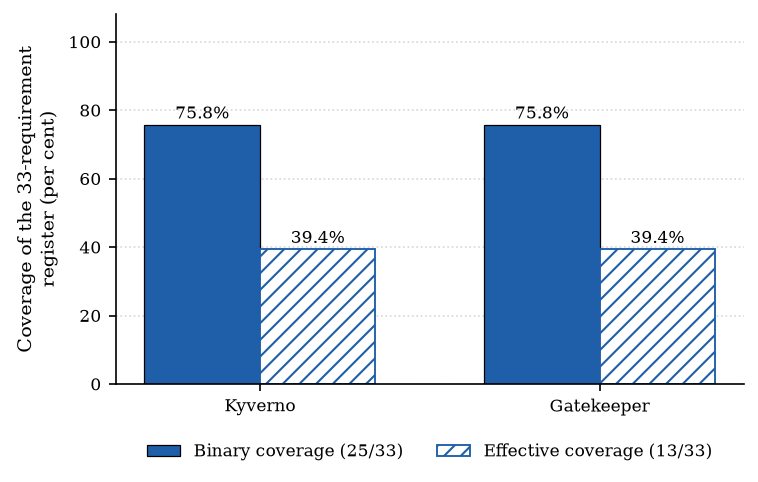
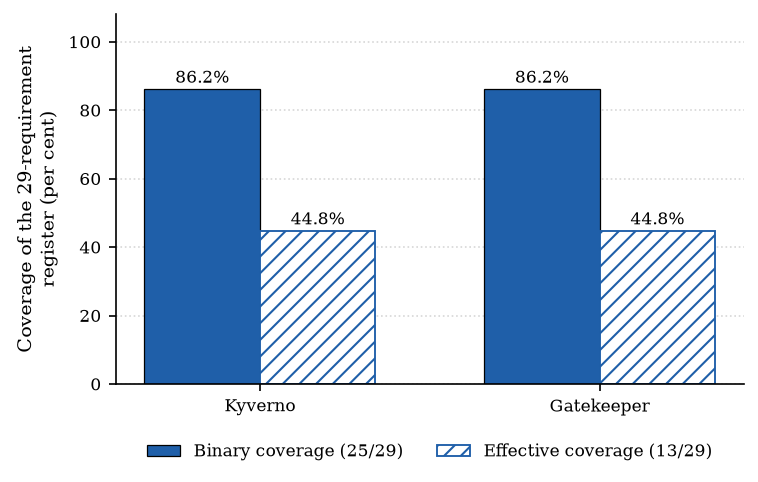
Reduce register to 29 technical requirements: articles yielding no technical requirement are recorded in scope rather than as register rows

diff --git a/scripts/verify-dora-citations.py b/scripts/verify-dora-citations.py
@@ -299,6 +299,16 @@ def main():
     seen = collections.Counter(
         int(re.search(r"(\d+)", r["dora_article"]).group(1)) for r in reg)
     corpus2 = json.load(open(args.corpus))
+    # Articles that yield no requirement enforceable at admission. The register
+    # decomposes each article into its technical requirements; where an article
+    # yields none, that is recorded here and in the thesis scope section rather
+    # than as a register row, so the register holds technical requirements only.
+    NO_TECHNICAL_REQUIREMENT = {
+        5:  "binds the management body, not the systems",
+        6:  "governs the risk management framework document",
+        13: "governs learning and post-incident review",
+        14: "governs crisis communication and staffing",
+    }
     gaps = []
     for a in range(5, 16):
         if seen.get(a):
@@ -306,6 +316,9 @@ def main():
         if (corpus2.get(str(a)) or {}).get("addressee") == "ESA":
             print(f"Article {a}: no requirement, correct "
                   f"(binds the ESAs, not financial entities).")
+        elif a in NO_TECHNICAL_REQUIREMENT:
+            print(f"Article {a}: no requirement, correct "
+                  f"({NO_TECHNICAL_REQUIREMENT[a]}).")
         else:
             gaps.append(a)
     if gaps:

diff --git a/results/coverage-matrix.md b/results/coverage-matrix.md
@@ -1,13 +1,13 @@
 # Policy Expressiveness Coverage Matrix
 
 
-Requirements assessed: **33**
+Requirements assessed: **29**
 
 
 | Coverage measure | Kyverno | OPA Gatekeeper |
 |---|---|---|
-| Binary coverage (expressible at all) | 75.8% | 75.8% |
-| Effective coverage (directly enforced) | 39.4% | 39.4% |
+| Binary coverage (expressible at all) | 86.2% | 86.2% |
+| Effective coverage (directly enforced) | 44.8% | 44.8% |
 
 **DIRECT** — the policy inspects the actual resource field the requirement
 concerns; enforcement is technical. **ASSERTED** — the policy checks an
@@ -19,8 +19,6 @@ enforcement is procedural. **ABSENT** — no working policy.
 
 | REQ | Article | Requirement | Kyverno | Gatekeeper |
 |---|---|---|---|---|
-| REQ-030 | 5(2) | Management body defines, approves, oversees and is responsible for ICT | ABSENT | ABSENT |
-| REQ-031 | 6(5) | Document and review the ICT risk management framework at least annuall | ABSENT | ABSENT |
 | REQ-012 | 8(6) | Maintain ICT asset inventory | ASSERTED | ASSERTED |
 | REQ-025 | 8(1) | Maintain documentation of ICT systems | ASSERTED | ASSERTED |
 | REQ-013 | 8(1) | Identify and classify ICT assets by criticality | ASSERTED | ASSERTED |
@@ -48,15 +46,11 @@ enforcement is procedural. **ABSENT** — no working policy.
 | REQ-021 | 11(6(a)) | Test ICT resilience through scenario-based testing | ABSENT | ABSENT |
 | REQ-014 | 12(1) | Establish backup and restoration procedures | ABSENT | ABSENT |
 | REQ-015 | 9(4(e)) | Implement ICT change management processes | ASSERTED | ASSERTED |
-| REQ-032 | 13(2) | Conduct post-incident reviews and incorporate lessons into the risk ma | ABSENT | ABSENT |
-| REQ-029 | 14(1)-(3) | Establish crisis communication plans and designate a communication lea | ABSENT | ABSENT |
 | REQ-022 | 9(3(c)) | Verify container image provenance and integrity | ASSERTED | ASSERTED |
 | REQ-023b | 9(3(c)) | Restrict container images to pre-approved registries | DIRECT | DIRECT |
 
 ## Notes on non-direct enforcement
 
-- **REQ-030** — classified not-automatable in the requirements register
-- **REQ-031** — classified not-automatable in the requirements register
 - **REQ-027** — checks dora.io/dependencies annotation; contents are unvalidated free text
 - **REQ-016** — classified not-automatable in the requirements register
 - **REQ-017** — checks asset-metadata annotations; values are unvalidated free text
@@ -67,6 +61,4 @@ enforcement is procedural. **ABSENT** — no working policy.
 - **REQ-021** — classified not-automatable in the requirements register
 - **REQ-014** — classified not-automatable in the requirements register
 - **REQ-015** — checks change-management annotations; cannot verify a change ticket exists or was approved
-- **REQ-032** — classified not-automatable in the requirements register
-- **REQ-029** — classified not-automatable in the requirements register
 - **REQ-022** — checks dora.io/image-signature-verified annotation; no cryptographic verification performed | Kyverno: native verifyImages rule type supports Cosign and Notary signature verification. Gatekeeper: no equivalent; requires an external data provider via the externaldata API.

diff --git a/results/citation-audit/citation-audit.md b/results/citation-audit/citation-audit.md
@@ -1,6 +1,6 @@
 # DORA citation audit
 
-Register rows checked: 33. Corpus: `dora-articles.json` (https://www.digital-operational-resilience-act.com/DORA_Articles.html).
+Register rows checked: 29. Corpus: `dora-articles.json` (https://www.digital-operational-resilience-act.com/DORA_Articles.html).
 
 Checks 1 to 3 (article exists, article binds financial entities, subdivision exists) are questions of fact about the regulation's structure and are decisive. Check 4 (subject match) is advisory: term overlap is a heuristic, and legal interpretation is a matter for the author, not a score.
 
@@ -8,8 +8,8 @@ Checks 1 to 3 (article exists, article binds financial entities, subdivision exi
 |---|---|
 | ERROR | 0 |
 | WARN | 7 |
-| INFO | 4 |
-| OK | 22 |
+| INFO | 1 |
+| OK | 21 |
 
 ## Review: subject may fit another provision better
 
@@ -27,10 +27,7 @@ Checks 1 to 3 (article exists, article binds financial entities, subdivision exi
 
 | REQ | Cited | Requirement | Finding | Suggestion |
 |---|---|---|---|---|
-| REQ-030 | Art. 5(2) | Management body defines, approves, oversees  | Article and subdivision valid; no subject vocabulary defined for this domain, so subject not scored. | - |
-| REQ-031 | Art. 6(5) | Document and review the ICT risk management  | Article and subdivision valid; no subject vocabulary defined for this domain, so subject not scored. | - |
 | REQ-016 | Art. 8(2) | Establish ICT risk assessment process | Article and subdivision valid; no subject vocabulary defined for this domain, so subject not scored. | - |
-| REQ-032 | Art. 13(2) | Conduct post-incident reviews and incorporat | Article and subdivision valid; no subject vocabulary defined for this domain, so subject not scored. | - |
 
 ## Verified
 
@@ -55,6 +52,5 @@ Checks 1 to 3 (article exists, article binds financial entities, subdivision exi
 | REQ-024 | Art. 11(5) | Implement graceful degradation capabilities | Article, subdivision and subject all consistent (score 3). | - |
 | REQ-021 | Art. 11(6)(a) | Test ICT resilience through scenario-based t | Article, subdivision and subject all consistent (score 3). | - |
 | REQ-015 | Art. 9(4)(e) | Implement ICT change management processes | Article, subdivision and subject all consistent (score 2). | - |
-| REQ-029 | Art. 14(1) | Establish crisis communication plans and des | Article, subdivision and subject all consistent (score 2). | - |
 | REQ-022 | Art. 9(3)(c) | Verify container image provenance and integr | Article, subdivision and subject all consistent (score 4). | - |
 | REQ-023b | Art. 9(3)(c) | Restrict container images to pre-approved re | Article, subdivision and subject all consistent (score 4). | - |
